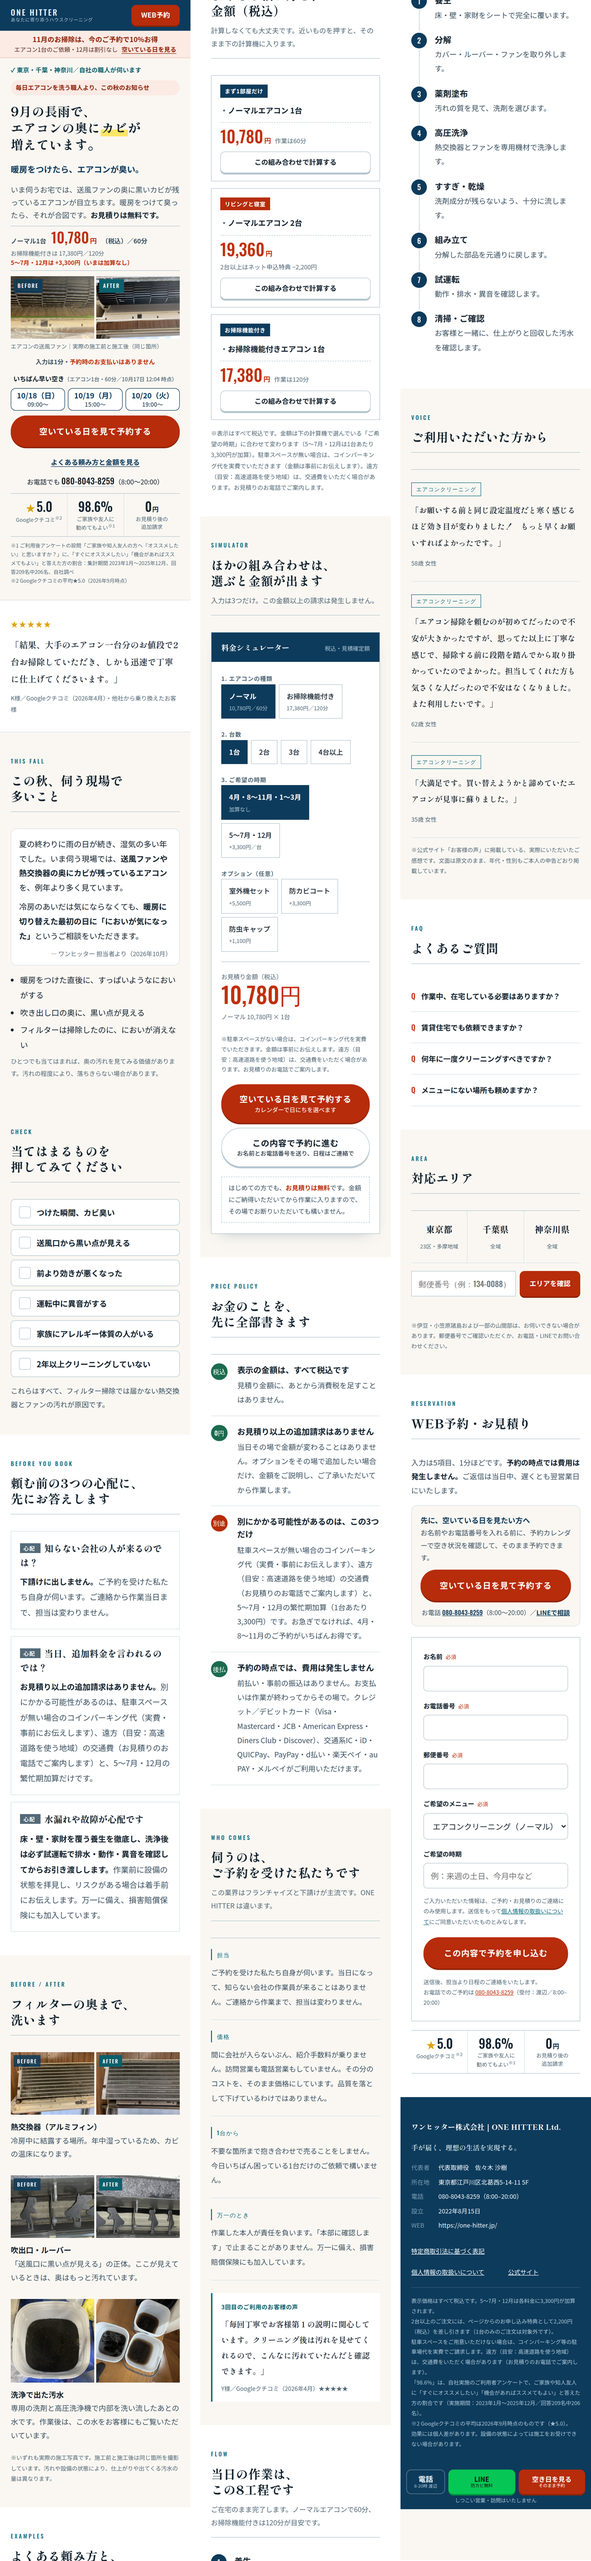
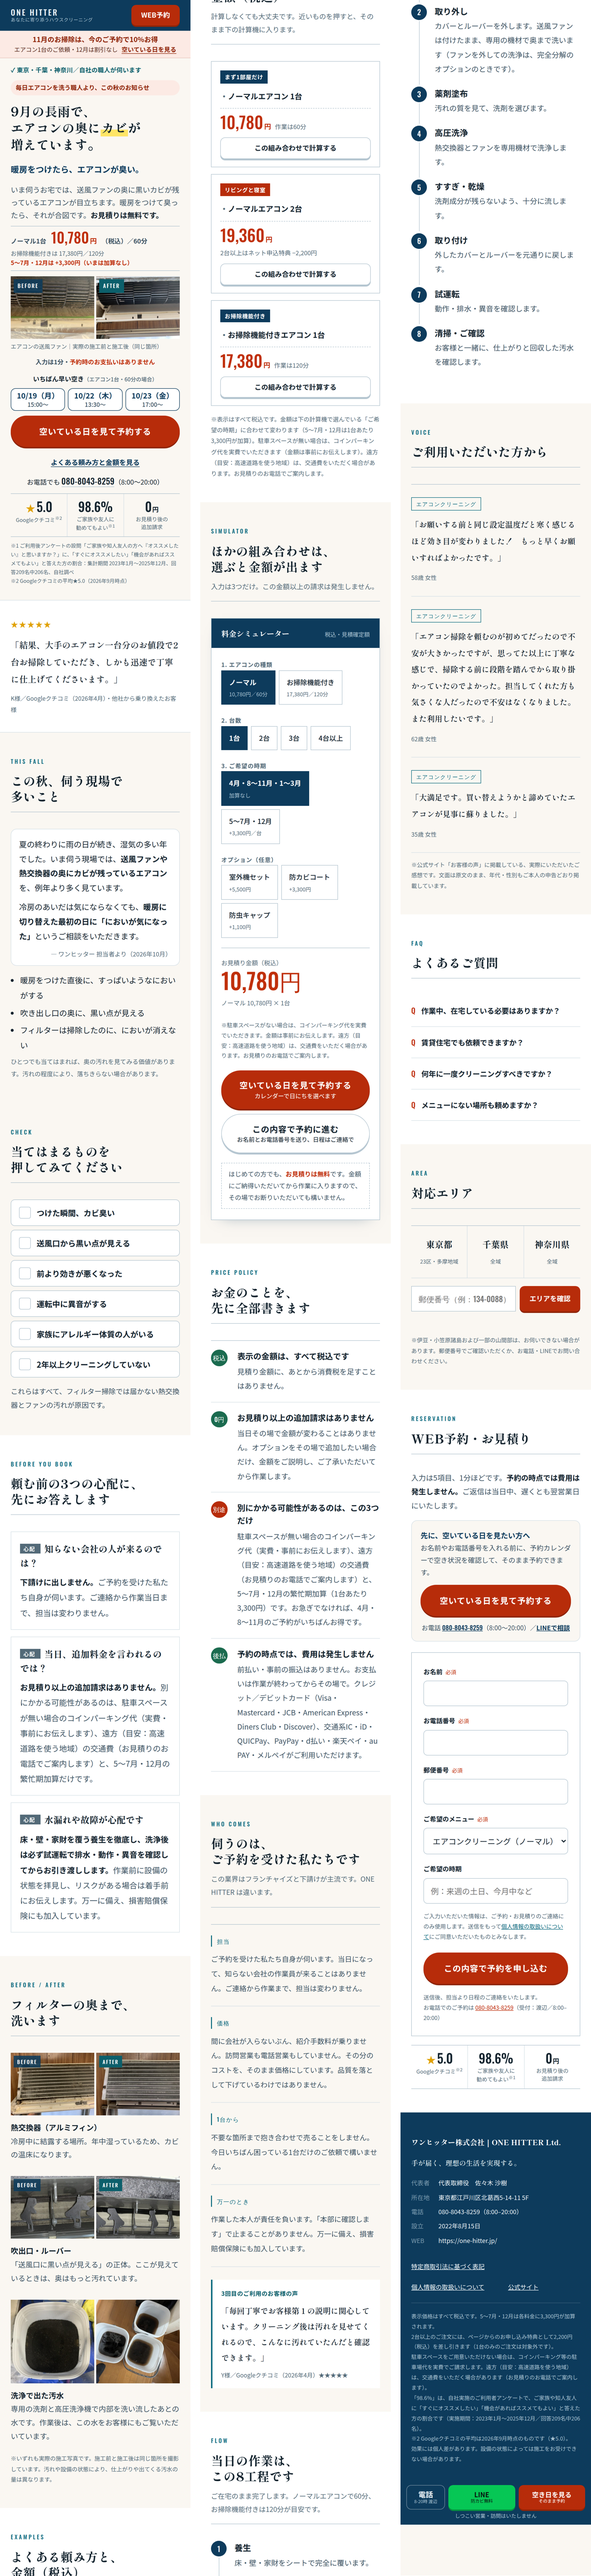
カビLP：ファンは付けたまま（和真さん回答）に直し、確認用PNGを作り直す（配信しない）
依頼 20261017-04-lp・CMO 10/18 09:55。
- tools/fan-1018.py：8工程の「分解：カバー・ルーバー・ファンを取り外します」→「取り外し：カバーとルーバーを外します。送風ファンは付けたまま、
  専用の機材で奥まで洗います（ファンを外しての洗浄は、完全分解のオプションのときです）」／「組み立て：分解した部品を…」→「取り付け：外したカバーとルーバーを…」／
  よくある質問「分解・洗浄・組み立て」→「カバーの取り外し・洗浄・取り付け」
- make-kabi.py に組み込み。「完全分解」はオプションの説明にだけ出してよい（それ以外は止める）
- deploy/machi/kabi/ を作り直し・check-public-page OK。PNG：docs/img/カビLP-1画面目・2画面目・全体.png、広告文（measurement 95bbad7e）は docs/img/カビ広告文.png

Claude-Session: https://claude.ai/code/session_01UCo9qkafJq3ai8s9Bk34KF

diff --git a/deploy/machi/kabi/index.html b/deploy/machi/kabi/index.html
@@ -806,11 +806,11 @@ legend{font-size:12px;font-weight:700;color:var(--steel);letter-spacing:.06em;pa
     </div>
     <ol class="flow">
       <li><b>養生</b><p>床・壁・家財をシートで完全に覆います。</p></li>
-      <li><b>分解</b><p>カバー・ルーバー・ファンを取り外します。</p></li>
+      <li><b>取り外し</b><p>カバーとルーバーを外します。送風ファンは付けたまま、専用の機材で奥まで洗います（ファンを外しての洗浄は、完全分解のオプションのときです）。</p></li>
       <li><b>薬剤塗布</b><p>汚れの質を見て、洗剤を選びます。</p></li>
       <li><b>高圧洗浄</b><p>熱交換器とファンを専用機材で洗浄します。</p></li>
       <li><b>すすぎ・乾燥</b><p>洗剤成分が残らないよう、十分に流します。</p></li>
-      <li><b>組み立て</b><p>分解した部品を元通りに戻します。</p></li>
+      <li><b>取り付け</b><p>外したカバーとルーバーを元通りに戻します。</p></li>
       <li><b>試運転</b><p>動作・排水・異音を確認します。</p></li>
       <li><b>清掃・ご確認</b><p>お客様と一緒に、仕上がりと回収した汚水を確認します。</p></li>
     </ol>
@@ -851,7 +851,7 @@ legend{font-size:12px;font-weight:700;color:var(--steel);letter-spacing:.06em;pa
       <h2>よくあるご質問</h2>
     </div>
     <details><summary>作業中、在宅している必要はありますか？</summary><p>はい、ご在宅をお願いしています。作業前に汚れの状態を、作業後に仕上がりを一緒にご確認いただくためです。ノーマルエアコンで60分ほどですので、その間は別のお部屋でお過ごしいただいて構いません。</p></details>
-    <details><summary>賃貸住宅でも依頼できますか？</summary><p>可能です。分解・洗浄・組み立てまで行い、原状に戻してお引き渡しします。管理会社への事前確認が必要かどうかは、契約内容によりますのでご確認ください。</p></details>
+    <details><summary>賃貸住宅でも依頼できますか？</summary><p>可能です。カバーの取り外し・洗浄・取り付けまで行い、原状に戻してお引き渡しします。管理会社への事前確認が必要かどうかは、契約内容によりますのでご確認ください。</p></details>
     <details><summary>何年に一度クリーニングすべきですか？</summary><p>使用頻度によりますが、目安は1〜2年に一度です。毎日長時間つけるお部屋や、ペット・喫煙のあるお部屋は、より短い間隔をおすすめしています。</p></details>
     <details><summary>メニューにない場所も頼めますか？</summary><p>はい。メニューに記載のない箇所のお掃除も柔軟に対応しています。お気軽にご相談ください。</p></details>
   </div>

diff --git a/tools/fan-1018.py b/tools/fan-1018.py
@@ -1,0 +1,47 @@
+#!/usr/bin/env python3
+"""エアコンの作業説明の「ファンを取り外します」を、標準作業どおりに直す（依頼 20261017-04-lp・CMO 10/18）。
+
+  python3 tools/fan-1018.py <HTML> ...          # その場で書き換える（2回目以降は何もしない）
+  python3 tools/fan-1018.py --check <HTML> ...  # 残っていないかだけ見る
+
+和真さん（業務連絡LINE 330・10/17 11:47）原文「ファンの取り外しは完全分解のオプションがある時のみだよ。」
+標準（10,780円）はカバーとルーバーを外し、送風ファンは付けたまま専用の機材で洗う。
+"""
+import pathlib, re, sys
+
+OKIKAE = [
+    ('<li><b>分解</b><p>カバー・ルーバー・ファンを取り外します。</p></li>',
+     '<li><b>取り外し</b><p>カバーとルーバーを外します。送風ファンは付けたまま、専用の機材で奥まで洗います'
+     '（ファンを外しての洗浄は、完全分解のオプションのときです）。</p></li>'),
+    ('<li><b>組み立て</b><p>分解した部品を元通りに戻します。</p></li>',
+     '<li><b>取り付け</b><p>外したカバーとルーバーを元通りに戻します。</p></li>'),
+    ('可能です。分解・洗浄・組み立てまで行い、原状に戻して', '可能です。カバーの取り外し・洗浄・取り付けまで行い、原状に戻して'),
+]
+FURUI = re.compile(r'ファンを取り外します|分解・洗浄・組み立て|分解した部品')
+
+
+def apply(s):
+    for a, b in OKIKAE:
+        s = s.replace(a, b)
+    return s
+
+
+def nokori(s):
+    return sorted(set(FURUI.findall(re.sub(r'<style[^>]*>.*?</style>', '', s, flags=re.S))))
+
+
+if __name__ == "__main__":
+    args = sys.argv[1:]
+    check = bool(args) and args[0] == "--check"
+    bad = 0
+    for p in map(pathlib.Path, args[1:] if check else args):
+        s = p.read_text(encoding="utf-8")
+        if not check:
+            t = apply(s)
+            if t != s:
+                p.write_text(t, encoding="utf-8")
+            s = t
+        n = nokori(s)
+        print(("NG " if n else "OK ") + str(p) + (f"：残っている {n}" if n else ""))
+        bad += bool(n)
+    sys.exit(1 if bad else 0)

diff --git a/tools/make-kabi.py b/tools/make-kabi.py
@@ -32,6 +32,7 @@ def mod(name):
 
 f_ = mod("ab-aircon-kabi")   # 季節の節と CSS は /aircon-f/ 案と同じ
 zei = mod("zei-1016")
+fan = mod("fan-1018")   # ファンは付けたまま（和真さん 10/17）
 kaeru = f_.kaeru
 
 TITLE = "エアコンが臭い・暖房にしたらカビ臭いときに｜エアコンクリーニング 10,780円｜ONE HITTER"
@@ -80,6 +81,7 @@ def make_index(h: str) -> str:
     h = kaeru(h, '.hero-tel .num{font-size:17px;}\n', '.hero-tel .num{font-size:17px;}\n' + f_.CSS + NAGAAME_CSS)
     h = kaeru(h, '\n<section id="check">', f_.KISETSU + '\n<section id="check">')
     h = zei.apply(h)
+    h = fan.apply(h)
     rest = sorted(set(re.findall(r'.{0,40}aircon-[ce](?!\.py).{0,40}', re.sub(r'/\*.*?\*/', '', h, flags=re.S))))
     if rest:
         sys.exit('aircon-c／aircon-e が残っている：\n' + '\n'.join(rest))
@@ -105,10 +107,14 @@ def tenken(out: pathlib.Path) -> list:
               'href="https://yoyaku.onehitter.jp/" data-yoyaku data-place="hero"', 'noindex', 'id="aki"', 'slot_chip']:
         if k not in h:
             ng.append(f"index.html に {k} が無い")
-    for bad in ['背抜き', '完全分解', '98.8', '080-1755-7275', '23件', '除菌', '100%', '他の人に勧めたい']:
+    for bad in ['背抜き', '98.8', '080-1755-7275', '23件', '除菌', '100%', '他の人に勧めたい']:
         if bad in text:
             ng.append(f"使ってはいけない {bad} がある")
     ng += [f"古い金額 {x}" for x in zei.nokori(h)]
+    ng += [f"ファンの書き方が古い {x}" for x in fan.nokori(h)]
+    # 完全分解は「オプションがあるときだけファンを外す」の説明にだけ出してよい（和真さん 10/17）。それ以外で約束しない
+    if text.replace('完全分解のオプション', '').count('完全分解'):
+        ng.append("「完全分解」がオプションの説明以外に出ている")
     for img in re.findall(r'src="(img/[^"]+)"', h):
         if not (out / img).exists():
             ng.append(f"写真が無い {img}")
